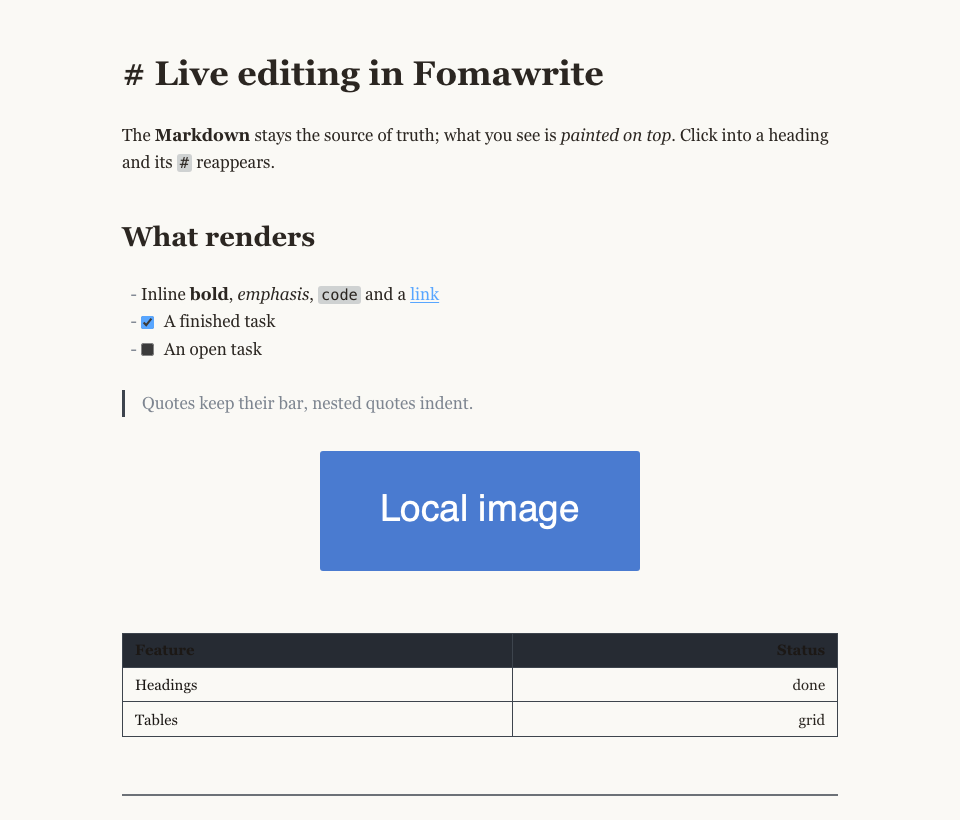
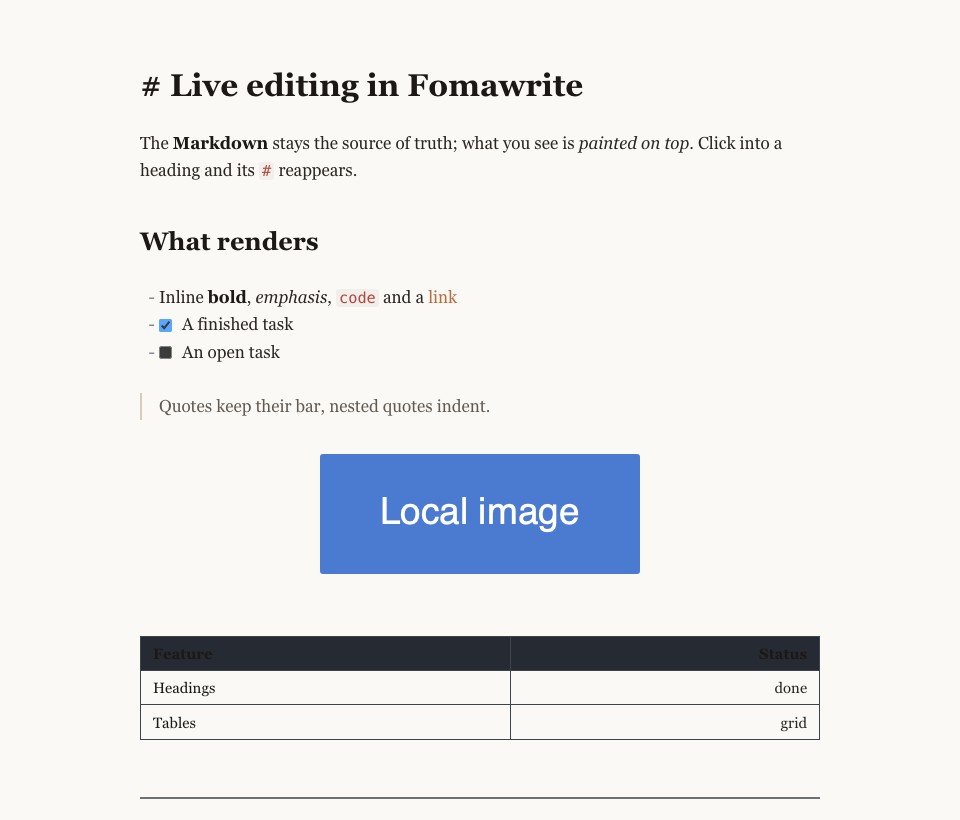
Cycle 136: Live follows the publishing theme, lighter; build 136 installed
Page: editing overlay filters the theme's layout in Live; theme element
rules are mapped onto Live lines and marks; Source appearances ignored in
Live; host text size wins; readability fill from the palette; exact-theme
switch. Host: View > Live Follows Theme Exactly; the left control names
the Output Style in Live. Captures of a layout-heavy theme filtered and
exact. Suite 208 Qt / 202 page. All bundles at build 136.

diff --git a/research/cycle-136/README.md b/research/cycle-136/README.md
@@ -7,7 +7,7 @@
 | Area | Change |
 | --- | --- |
 | Editor page (`src/editor/src/livetheme.ts`) | In Live, the theme CSS applies and an editing overlay (`#fomawrite-live-overlay`) neutralises its layout on `#write` and block containers (position, float, columns, transform, box-shadow, background-image, `::before`/`::after` furniture; width, max-width, margin and padding reset to the editor's own measure) while typography survives. The overlay is scoped to `#write.fw-mode-live:not(.fw-live-exact)`, so Source is untouched. |
-| Editor page (`src/editor/src/thememap.ts`) | MAPPING_STATUS |
+| Editor page (`src/editor/src/thememap.ts`) | Theme rules written against elements are mapped onto Live's lines and marks and appended as `#fomawrite-theme-mapped` (between theme and overlay): `h1`..`h6` → `.cm-line.fw-hN`, `blockquote` → `.cm-line.fw-quote-line`, `li` → `.cm-line.fw-list-line`, `p` → plain `.cm-line`, `code` → `.fw-code`, `a` → `.fw-live-link`, `strong`/`em`/`del` → `.fw-strong`/`.fw-em`/`.fw-strike`. Only typography properties are copied (font-*, colour, line-height, spacing, text-decoration, heading/quote borders); layout properties are never emitted; `!important` is kept; `@media` is descended into. Host text size wins in Live (`fw-host-size`), so Larger/Smaller act on Live and theme headings in `em` scale with it. `html.fw-live-filtered body` resets body margin, padding, background-image and columns. |
 | Editor page | Source appearances (Manuscript/Editorial/Book/Code classes) are not applied in Live; `fontSize`, `fontFamily`, focus, typewriter and dark still are. Readability fill: when the theme leaves `#write`'s background or text colour unset, the host palette fills it (`--fw-live-bg` / `--fw-live-fg`). |
 | Appearance JSON | New optional keys `liveThemeFilter: boolean` (default true; false = exact theme) and `palette: {background, text}`. |
 | Host (`LiveEditorPane.qml`, `Main.qml`) | The pane sends the two keys; a new workspace setting `liveThemeExact` backs **View → Live Follows Theme Exactly** (command `liveThemeExact`). |
@@ -15,13 +15,13 @@
 
 ## Verification
 
-- Qt suite: **QT_COUNT passed, 0 failed, 0 skipped**. New: `liveLeftControlShowsThemeAndExactSwitchReachesPage` (menu contents in both modes; the switch reaches the page's appearance JSON with `liveThemeFilter:false` and the palette); `liveEditorCapturesEachPresentation` now also renders a deliberately layout-heavy theme filtered and exact and checks the frames differ.
-- Editor page: **JS_COUNT node tests** (overlay rules, scoping, exact switch, readability fill, selector mapping).
+- Qt suite: **208 passed, 0 failed, 0 skipped**. New: `liveLeftControlShowsThemeAndExactSwitchReachesPage` (menu contents in both modes; the switch reaches the page's appearance JSON with `liveThemeFilter:false` and the palette); `liveEditorCapturesEachPresentation` now also renders a deliberately layout-heavy theme filtered and exact and checks the frames differ.
+- Editor page: **202 node tests** (overlay rules and scoping, exact switch, readability fill, selector mapping on a Typora-like theme, layout-property ban, malformed CSS, style-element order, body reset).
 - Captures ([research/cycle-134/captures](../cycle-134/captures/) `live-heavy-theme-filtered.png`, `live-heavy-theme-exact.png`): filtered keeps the theme's Georgia face, brown text and cream background and drops the two-column layout, rotation, shadow, 420 px measure and the "DRAFT" furniture; exact shows all of them.
-- Bundles: BUNDLE_STATUS
+- Bundles: `dist/Fomawrite.app`, `dist/Fomawrite Dev.app` and `/Applications/Fomawrite.app` all at build 136 ([verified-builds.json](verified-builds.json)), installed 8 October 21:55 with the app closed.
 
 ## Limits
 
-- LIMITS_STATUS
+- Mapping limits (page agent's report): a theme's `ul`/`ol` are not told apart, so both `ol li` and `ul li` rules reach every list line; absolute px heading sizes stay as written and do not follow Larger/Smaller; on quotes only `padding-left` is mapped (no `::before` glyphs); a rendered quote's inner `p` rule can beat a block rule; nested CSS (`&`) is skipped; a theme that sets only `html { color }` is read as unset. The exact-theme switch is the answer when a theme needs more than this.
 - Rules a theme puts on `html`/`body` are reset only for padding, margin, background-image and columns.
 - The readability check compares `#write`'s colour with `<html>`'s, so a theme that sets only `html { color }` is treated as unset and filled from the palette.

diff --git a/research/overnight-2026-10-08/PLAN.md b/research/overnight-2026-10-08/PLAN.md
@@ -1,0 +1,35 @@
+# Overnight plan — 8 October 2026 (21:50 → 03:30)
+
+Andrew's brief: run the next couple of cycles we discussed; Fable plans, cheap subagents build, a separate subagent reviews each cycle's work; be frugal with tokens; a complete report by the morning. Install-first rule from this morning: every cycle ends with an installed, aligned build and a one-line "what to try".
+
+## What was discussed and what can be built without Andrew
+
+| Discussed | Overnight? | Why |
+| --- | --- | --- |
+| Cycle 136 — Live follows the theme, lighter | Done, installing now | Decided this evening. |
+| Grammarly Desktop experiment | No | Needs Andrew at the keyboard with his Grammarly account. Steps written for him in the report. |
+| Roam "send to daily note" (harness shape 1) | No | Still a Maybe in IDEAS.md ("do not build a Maybe"), and there is no local Roam CLI or token path on this machine: the Roam connector is a claude.ai connector, so a Qt-side integration needs an API token decision from Andrew. A feasibility note is written instead. |
+| Live as the daily editor: fidelity and robustness | Yes | Decided direction; the page agent reported concrete gaps in the theme mapping, and the native harness has three theme-folder failures. |
+
+## Cycle 137 — Live theme fidelity (builder: page agent; reviewer: separate agent)
+
+Goal: the bundled and Typora-style themes look right in filtered Live, closing the gaps the mapping agent reported.
+1. Distinguish `ul`/`ol` lines (`fw-list-line` gains `fw-list-ul`/`fw-list-ol` from the Lezer list node) so `ol li`/`ul li` theme rules map correctly.
+2. Absolute `px`/`pt` heading sizes in mapped copies become `em` relative to the theme's base size (or the host's 17px when the theme sets none), so Larger/Smaller act on headings too.
+3. Quote mapping: `padding` shorthand and `margin-left` for `.fw-quote-line`, and theme `blockquote::before` glyphs are dropped deliberately (documented).
+4. A gallery capture test: every bundled theme/preset rendered in filtered Live, light and dark, saved under `research/cycle-137/captures/`; frames must be non-uniform; reviewed by eye by the reviewer agent and by me.
+5. Host: nothing unless the review finds it.
+
+## Cycle 138 — native theme-folder checks and Live selection robustness (builder: Qt agent; reviewer)
+
+1. Fix the three failing `check-document-views` theme-folder checks ("Cannot create disposable folder themes"): find why `writeTheme` fails against the build-135/136 bundle and make the fixture or the app right; rerun the harness.
+2. The Live selection race: Format commands issued within the 30 ms cursor debounce could act on a stale selection. Page-side `wrap`/`replace` commands with arguments (`runCommandWithArgs`) so the page applies at its own current selection; host routes `liveWrapSelection`/`liveReplaceSelection` through them when the page is ready. Red/green test.
+3. Install, report.
+
+## Reviewer protocol
+
+After each builder finishes and I merge: a Sonnet reviewer gets the diff range, the design note and the record, runs the page tests and the targeted Qt tests, and reports defects, test gaps and doc drift. I fix or send back; nothing is installed until the reviewer's findings are addressed or explicitly recorded as open.
+
+## Time checks
+
+21:50 start · 00:00 Cycle 137 installed · 02:30 Cycle 138 installed · 03:30 report written, memory updated, worktrees removed.

diff --git a/STATUS.md b/STATUS.md
@@ -6,8 +6,8 @@ This is the only place the current review build is recorded. Update it at the en
 | --- | --- |
 | **Current review build** | `0.3.0-dev32` / macOS `0.3.0 (136)` |
 | **Last completed cycle** | 136 — Live follows the publishing theme, lighter ([record](research/cycle-136/README.md)), 8 October 2026 |
-| **Regression suite** | **207 passed, 0 failed, 0 skipped** (`./bin/test`, offscreen Qt 6.11.2, Apple Silicon; down from 240 because the Visual Edit and mapper suites left with the feature — see the record); editor page **176 passed** (`cd src/editor && npm test`). Two known Qt Material `SplitView` null-parent warnings in `savesAndOpensFromFooterMenu`. |
-| **Packaged bundles** | `dist/Fomawrite.app`, `dist/Fomawrite Dev.app` and `/Applications/Fomawrite.app` are all at build **135** ([manifest](research/cycle-135/verified-builds.json)); the stale Omawrite bundles were removed from `dist/`. **Refresh with the app closed:** `./bin/package-mac && ./bin/prepare-dev-app && ./bin/install-mac`. |
+| **Regression suite** | **208 passed, 0 failed, 0 skipped** (`./bin/test`, offscreen Qt 6.11.2, Apple Silicon); editor page **202 passed** (`cd src/editor && npm test`). Two known Qt Material `SplitView` null-parent warnings in `savesAndOpensFromFooterMenu`. |
+| **Packaged bundles** | `dist/Fomawrite.app`, `dist/Fomawrite Dev.app` and `/Applications/Fomawrite.app` are all at build **136** ([manifest](research/cycle-136/verified-builds.json)); the stale Omawrite bundles were removed from `dist/`. **Refresh with the app closed:** `./bin/package-mac && ./bin/prepare-dev-app && ./bin/install-mac`. |
 | **CI** | [`.github/workflows/ci.yml`](.github/workflows/ci.yml): macOS, pinned Qt 6.11.3, `./bin/build && ./bin/test`. First run proved the pipeline but was red on four runner-only UI-click tests; Cycle 134 root-caused one (a viewport-transition timer stealing focus) and hardened the click helper for the other three — see the Actions tab for the run after `e07f727`. |
 | **Baseline reviewed** | [INDEPENDENT_REVIEW.md](INDEPENDENT_REVIEW.md) (6 October 2026). C1–C6 closed by Cycle 131; A1–A8/E4 by Cycle 132; P1 and part of §4 by Cycle 133; the §6 direction question answered by Cycle 134. |
 
